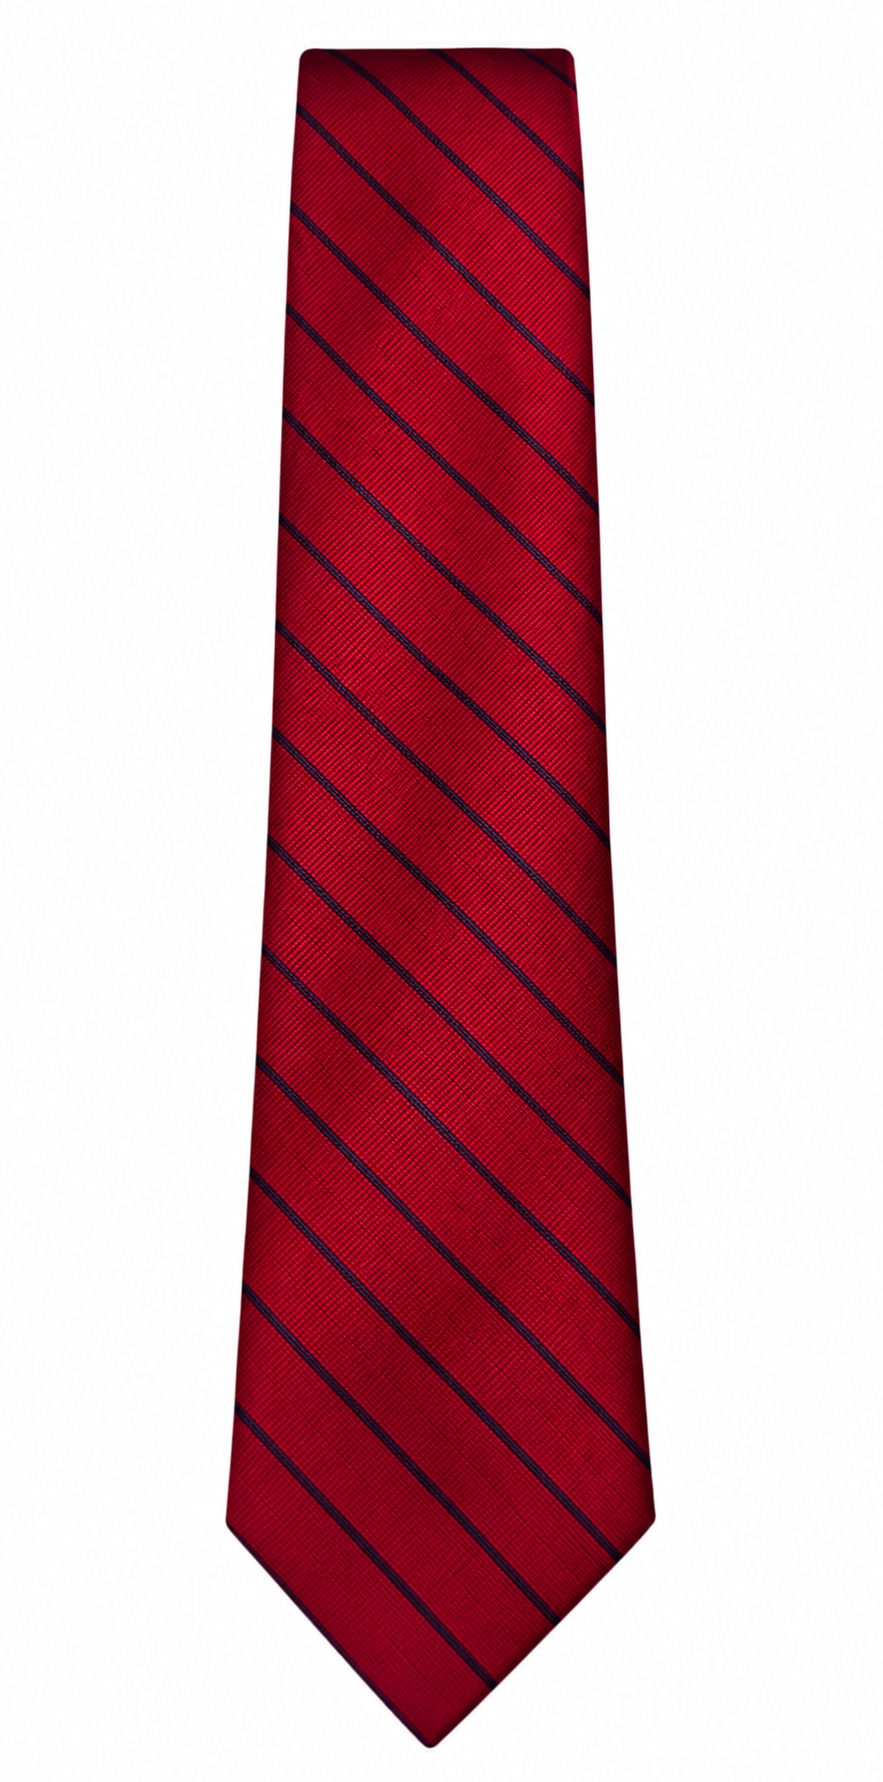
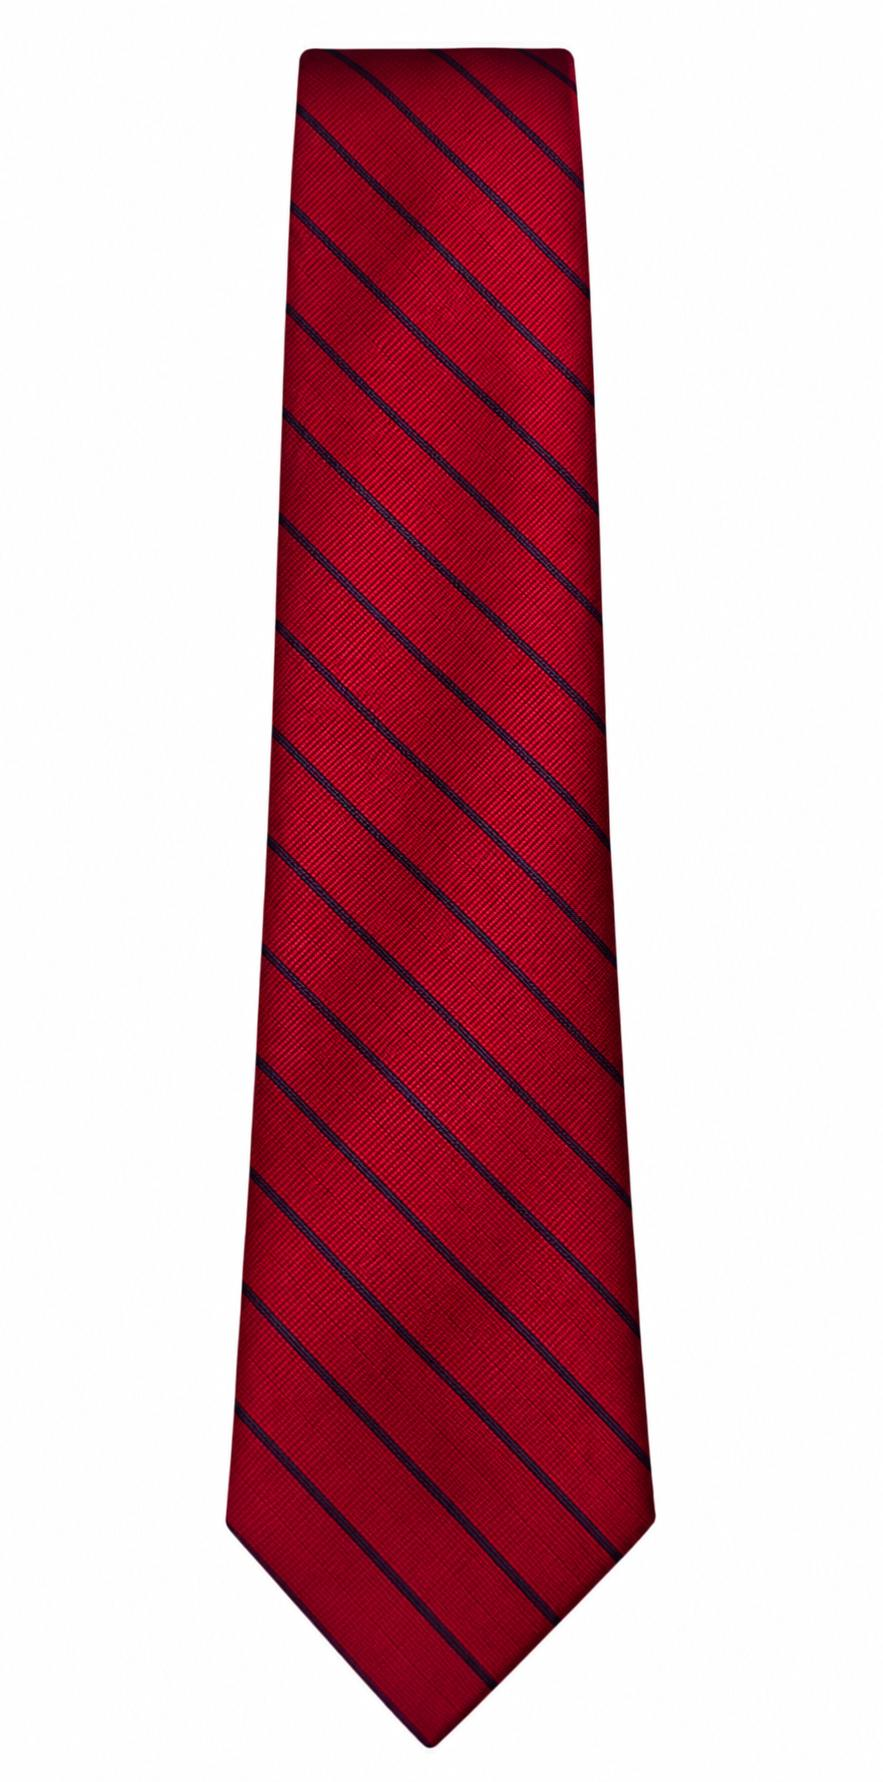
fix: Reduced Image size for quick loading

diff --git a/Frontend/public/ties/conv.py b/Frontend/public/ties/conv.py
@@ -1,0 +1,30 @@
+WideBalckDot= 2
+DarkWine = 2
+BlackPattern = 1
+BlackCriss = 2
+BrownSkinTie = 1
+DarkWineDotted = 1
+WideTie = 1
+
+import os
+from PIL import Image
+
+def batch_compress(input_dir, output_dir, quality=75):
+    if not os.path.exists(output_dir):
+        os.makedirs(output_dir)
+        
+    for filename in os.listdir(input_dir):
+        if filename.lower().endswith(('.jpg', '.jpeg', '.png')):
+            input_path = os.path.join(input_dir, filename)
+            output_path = os.path.join(output_dir, filename)
+            
+            with Image.open(input_path) as img:
+                # Convert PNGs to RGB if saving as JPEG (JPEGs don't support transparency)
+                if img.mode in ("RGBA", "P") and filename.lower().endswith(('.jpg', '.jpeg')):
+                    img = img.convert("RGB")
+                
+                img.save(output_path, "JPEG", optimize=True, quality=quality)
+                print(f"Compressed: {filename}")
+
+# Example Usage
+batch_compress("./", "compressed_photos", quality=75)
